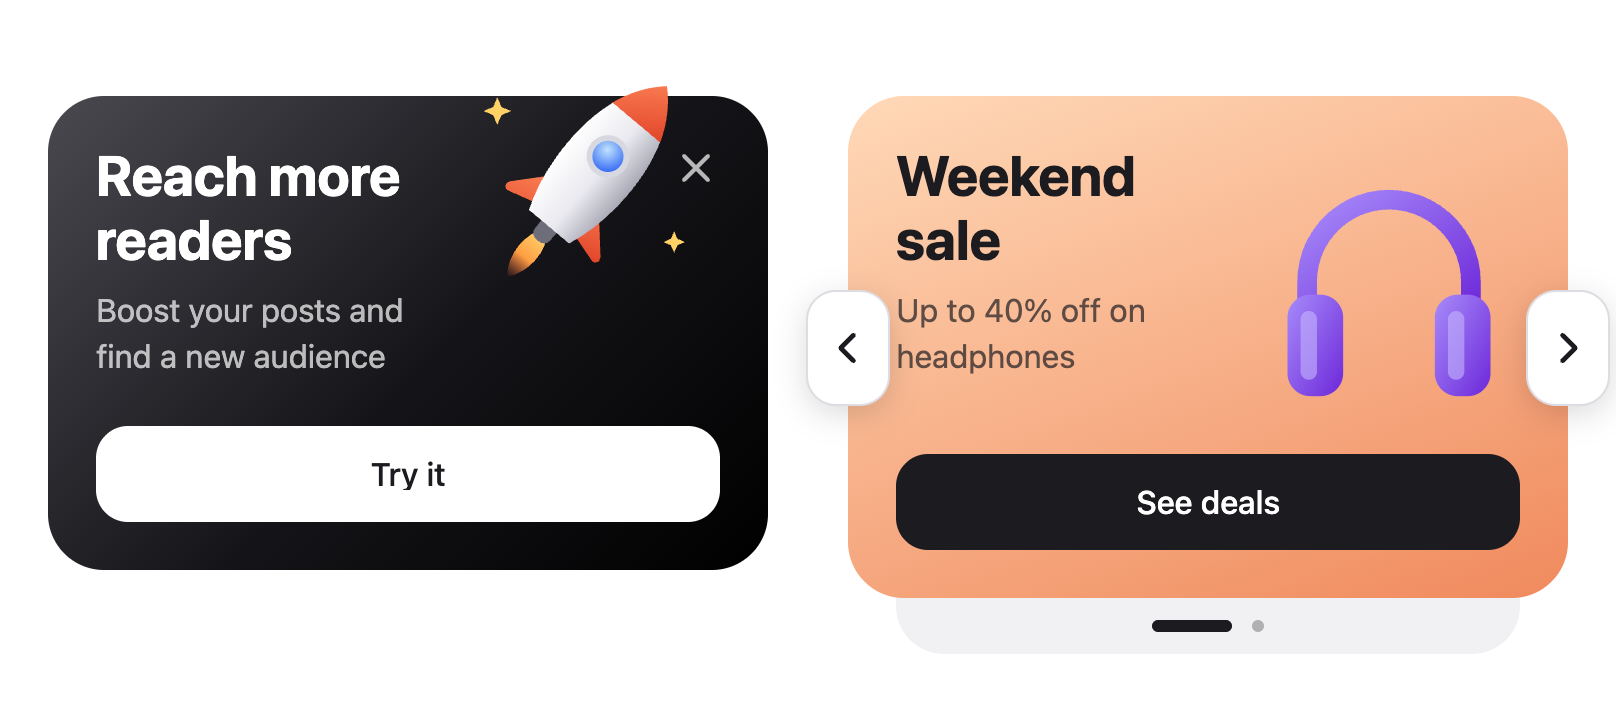
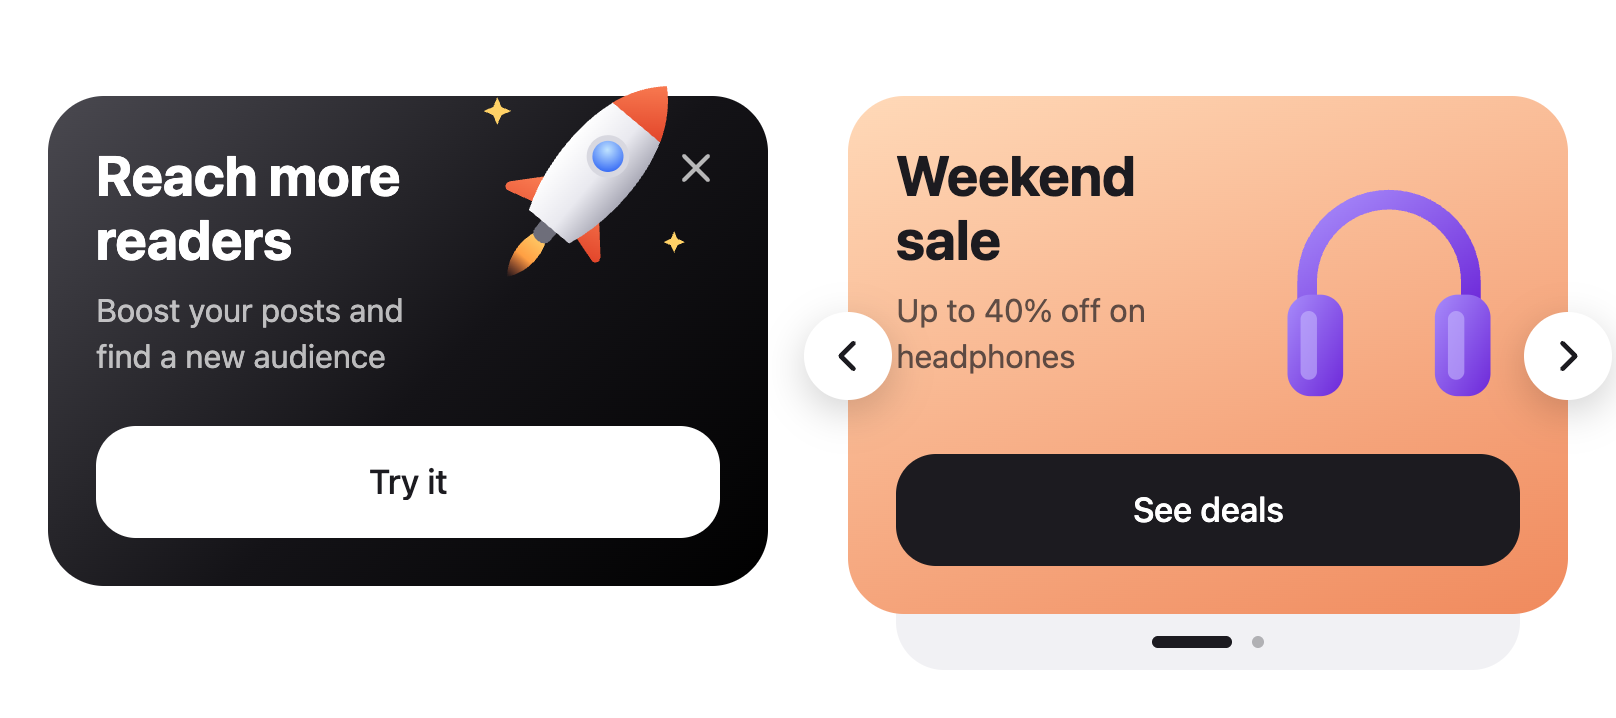
Round carousel arrows, larger promo buttons and fix demo image paths on the docs site

diff --git a/src/components/PromoCard/PromoCard.stories.tsx b/src/components/PromoCard/PromoCard.stories.tsx
@@ -10,11 +10,11 @@ const meta = {
   args: {
     title: 'Reach more readers',
     description: 'Boost your posts and find a new audience',
-    image: '/demo/rocket.svg',
+    image: 'demo/rocket.svg',
     imageBleed: true,
     tone: 'dark',
     size: 'md',
-    action: <Button>Try it</Button>,
+    action: <Button size="lg">Try it</Button>,
     onClose: () => {},
   },
   argTypes: {
@@ -53,22 +53,22 @@ export const Tones: Story = {
         tone="dark"
         title="Reach more readers"
         description="Boost your posts and find a new audience"
-        image="/demo/rocket.svg"
-        action={<Button>Try it</Button>}
+        image="demo/rocket.svg"
+        action={<Button size="lg">Try it</Button>}
       />
       <PromoCard
         tone="light"
         title="Invite a friend"
         description="You both get a month of premium"
-        image="/demo/gift.svg"
-        action={<Button>Share link</Button>}
+        image="demo/gift.svg"
+        action={<Button size="lg">Share link</Button>}
       />
       <PromoCard
         tone="neutral"
         title="Plan your trip"
         description="Tickets, hotels and routes in one place"
-        image="/demo/plane.svg"
-        action={<Button>Open planner</Button>}
+        image="demo/plane.svg"
+        action={<Button size="lg">Open planner</Button>}
       />
     </div>
   ),
@@ -88,16 +88,16 @@ export const CustomBackground: Story = {
         background="linear-gradient(135deg, #ff8a5c 0%, #c2185b 100%)"
         title="Weekend sale"
         description="Up to 40% off on headphones"
-        image="/demo/headphones.svg"
-        action={<Button>See deals</Button>}
+        image="demo/headphones.svg"
+        action={<Button size="lg">See deals</Button>}
       />
       <PromoCard
         tone="light"
         background="linear-gradient(135deg, #d9f99d 0%, #67e8f9 100%)"
         title="Grow a garden"
         description="Daily reminders to water your plants"
-        image="/demo/plant.svg"
-        action={<Button>Turn on</Button>}
+        image="demo/plant.svg"
+        action={<Button size="lg">Turn on</Button>}
       />
     </div>
   ),
@@ -109,7 +109,7 @@ export const Wide: Story = {
       size="lg"
       title="Reach more readers"
       description="Boost your posts and find a new audience in a couple of clicks"
-      image="/demo/rocket.svg"
+      image="demo/rocket.svg"
       action={
         <>
           <Button size="lg">Try it</Button>
@@ -139,8 +139,8 @@ export const Sizes: Story = {
           size={size}
           title="Reach more readers"
           description={`size="${size}"`}
-          image="/demo/rocket.svg"
-          action={<Button size={size}>Try it</Button>}
+          image="demo/rocket.svg"
+          action={<Button size={size === 'sm' ? 'md' : 'lg'}>Try it</Button>}
         />
       ))}
     </div>
@@ -160,9 +160,9 @@ function DismissDemo() {
       <PromoCard
         title="Reach more readers"
         description="Boost your posts and find a new audience"
-        image="/demo/rocket.svg"
+        image="demo/rocket.svg"
         imageBleed
-        action={<Button>Try it</Button>}
+        action={<Button size="lg">Try it</Button>}
         onClose={() => setVisible(false)}
       />
     </div>
@@ -181,9 +181,9 @@ export const Readme: Story = {
         <PromoCard
           title="Reach more readers"
           description="Boost your posts and find a new audience"
-          image="/demo/rocket.svg"
+          image="demo/rocket.svg"
           imageBleed
-          action={<Button>Try it</Button>}
+          action={<Button size="lg">Try it</Button>}
           onClose={() => {}}
         />
       </div>
@@ -194,10 +194,10 @@ export const Readme: Story = {
             background="linear-gradient(160deg, #ffd9b8 0%, #f08a5d 100%)"
             title="Weekend sale"
             description="Up to 40% off on headphones"
-            image="/demo/headphones.svg"
-            action={<Button>See deals</Button>}
+            image="demo/headphones.svg"
+            action={<Button size="lg">See deals</Button>}
           />
-          <PromoCard title="Invite a friend" action={<Button>Share link</Button>} />
+          <PromoCard title="Invite a friend" action={<Button size="lg">Share link</Button>} />
         </PromoCarousel>
       </div>
     </div>

diff --git a/src/components/PromoCard/PromoCarousel.css b/src/components/PromoCard/PromoCarousel.css
@@ -1,7 +1,6 @@
 .vui-carousel {
   --vui-carousel-gap: 16px;
-  --vui-carousel-arrow-width: 40px;
-  --vui-carousel-arrow-height: 56px;
+  --vui-carousel-arrow-size: 44px;
   --vui-carousel-deck-inset: 24px;
   --vui-carousel-deck-radius: 24px;
 
@@ -50,21 +49,23 @@
   display: none;
   align-items: center;
   justify-content: center;
-  width: var(--vui-carousel-arrow-width);
-  height: var(--vui-carousel-arrow-height);
+  width: var(--vui-carousel-arrow-size);
+  height: var(--vui-carousel-arrow-size);
   margin: 0;
   padding: 0;
   border: 0;
-  border-radius: 14px;
-  background: var(--vui-color-bg);
-  box-shadow:
-    0 0 0 1px var(--vui-color-border),
-    0 4px 16px rgb(0 0 0 / 0.16);
+  border-radius: 50%;
+  background: var(--vui-color-surface-raised);
+  box-shadow: 0 6px 20px rgb(0 0 0 / 0.18);
   color: var(--vui-color-text);
   cursor: pointer;
   user-select: none;
   transform: translateY(-50%);
-  transition: background-color 0.15s ease;
+  transition:
+    transform 0.25s cubic-bezier(0.2, 0.8, 0.2, 1),
+    box-shadow 0.25s ease,
+    background-color 0.25s ease;
+  -webkit-tap-highlight-color: transparent;
 }
 
 .vui-carousel__arrow > svg {
@@ -73,11 +74,11 @@
 }
 
 .vui-carousel__arrow--previous {
-  left: calc(var(--vui-carousel-arrow-width) / -2);
+  left: calc(var(--vui-carousel-arrow-size) / -2);
 }
 
 .vui-carousel__arrow--next {
-  right: calc(var(--vui-carousel-arrow-width) / -2);
+  right: calc(var(--vui-carousel-arrow-size) / -2);
 }
 
 .vui-carousel__arrow:focus-visible {
@@ -86,7 +87,7 @@
 }
 
 .vui-carousel__arrow:active {
-  transform: translateY(-50%) scale(0.94);
+  transform: translateY(-50%) scale(0.92);
 }
 
 /* Стрелки — только там, где есть мышь; на телефоне листают свайпом. */
@@ -96,7 +97,12 @@
   }
 
   .vui-carousel__arrow:hover {
-    background: var(--vui-color-surface);
+    box-shadow: 0 8px 24px rgb(0 0 0 / 0.24);
+    transform: translateY(-50%) scale(1.06);
+  }
+
+  .vui-carousel__arrow:hover:active {
+    transform: translateY(-50%) scale(0.94);
   }
 }
 

diff --git a/src/components/PromoCard/PromoCarousel.stories.tsx b/src/components/PromoCard/PromoCarousel.stories.tsx
@@ -8,8 +8,8 @@ const slides = [
     key="boost"
     title="Reach more readers"
     description="Boost your posts and find a new audience"
-    image="/demo/rocket.svg"
-    action={<Button>Try it</Button>}
+    image="demo/rocket.svg"
+    action={<Button size="lg">Try it</Button>}
   />,
   <PromoCard
     key="sale"
@@ -17,16 +17,16 @@ const slides = [
     tone="light"
     title="Weekend sale"
     description="Up to 40% off on headphones and speakers"
-    image="/demo/headphones.svg"
-    action={<Button>See deals</Button>}
+    image="demo/headphones.svg"
+    action={<Button size="lg">See deals</Button>}
   />,
   <PromoCard
     key="invite"
     background="linear-gradient(180deg, #0b1023 0%, #2f6bff 100%)"
     title="Invite a friend"
     description="You both get a month of premium"
-    image="/demo/gift.svg"
-    action={<Button>Share link</Button>}
+    image="demo/gift.svg"
+    action={<Button size="lg">Share link</Button>}
   />,
 ];
 
